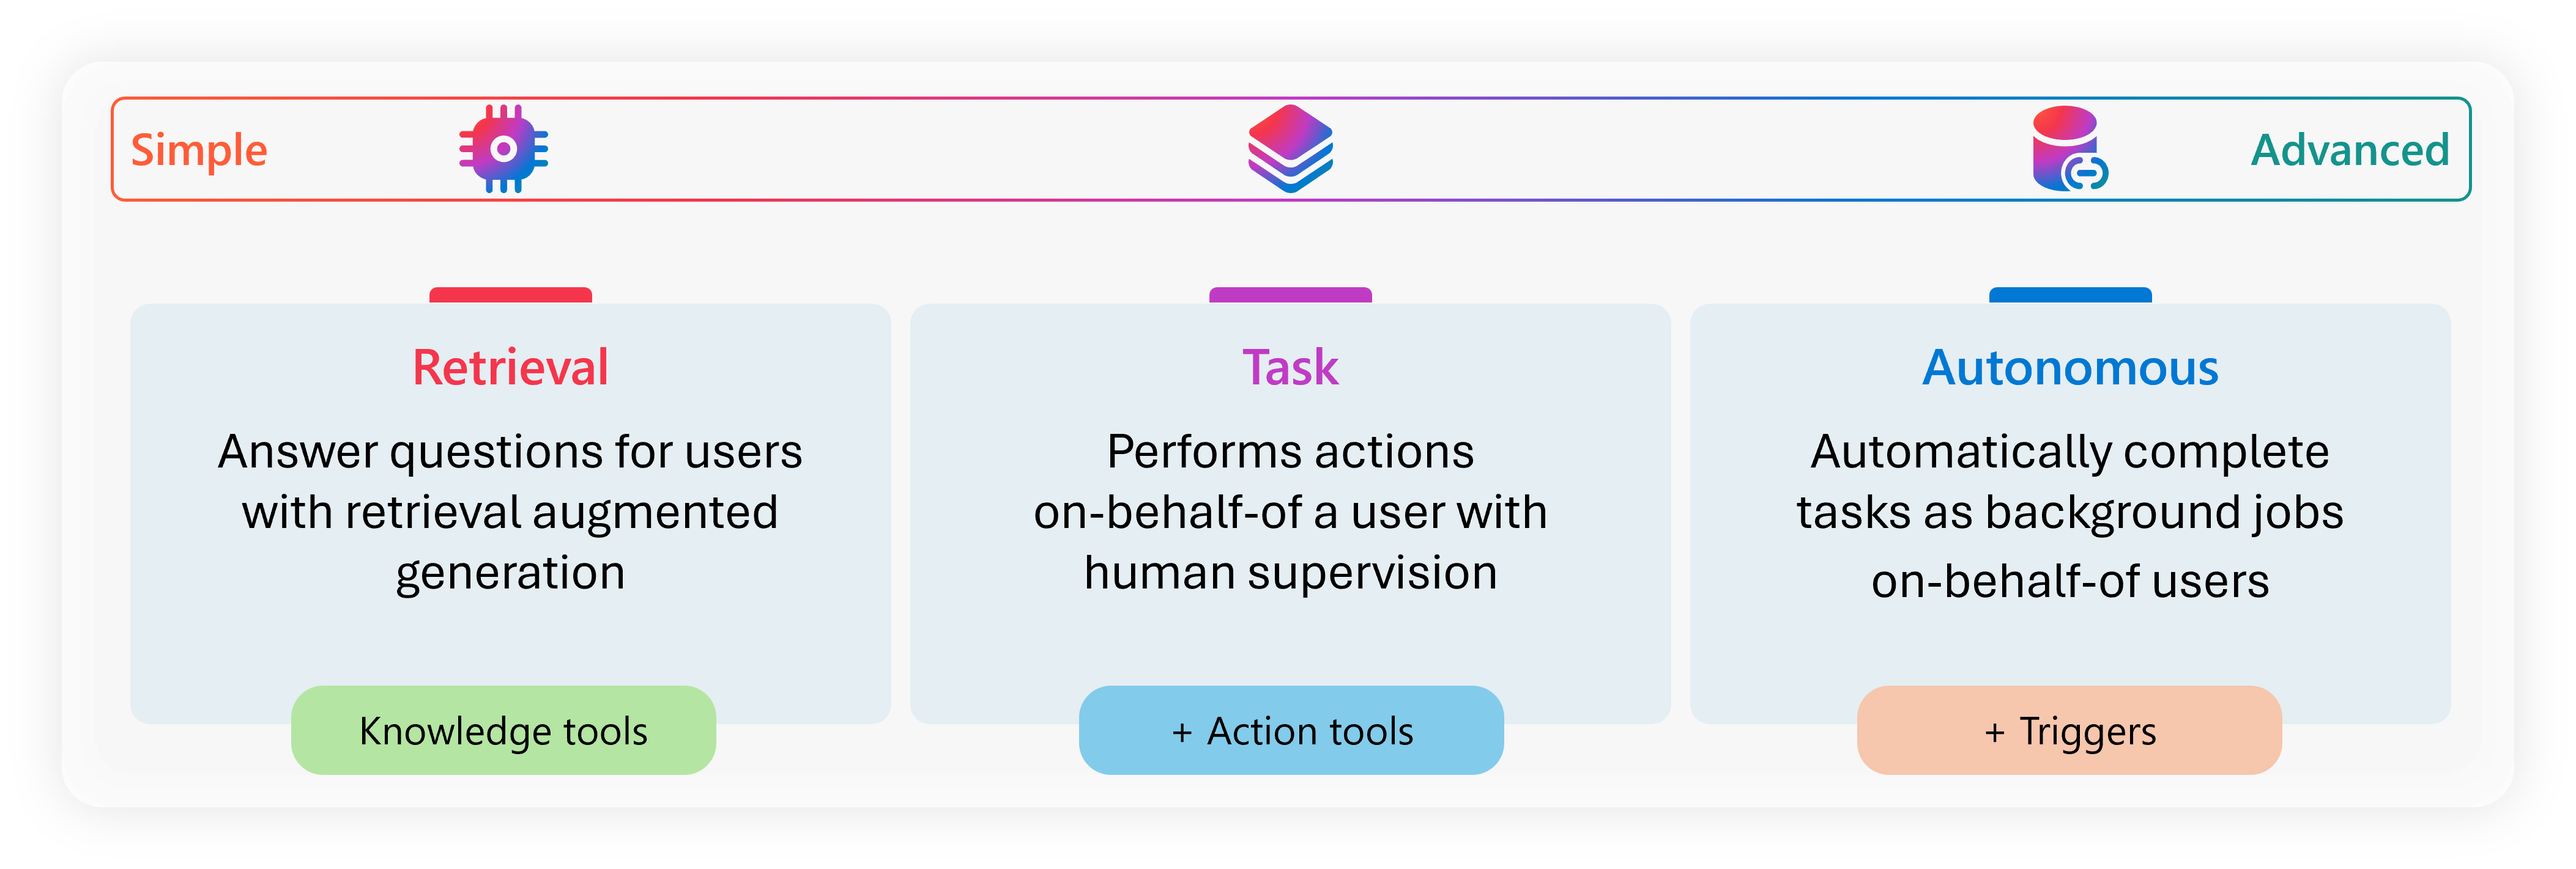
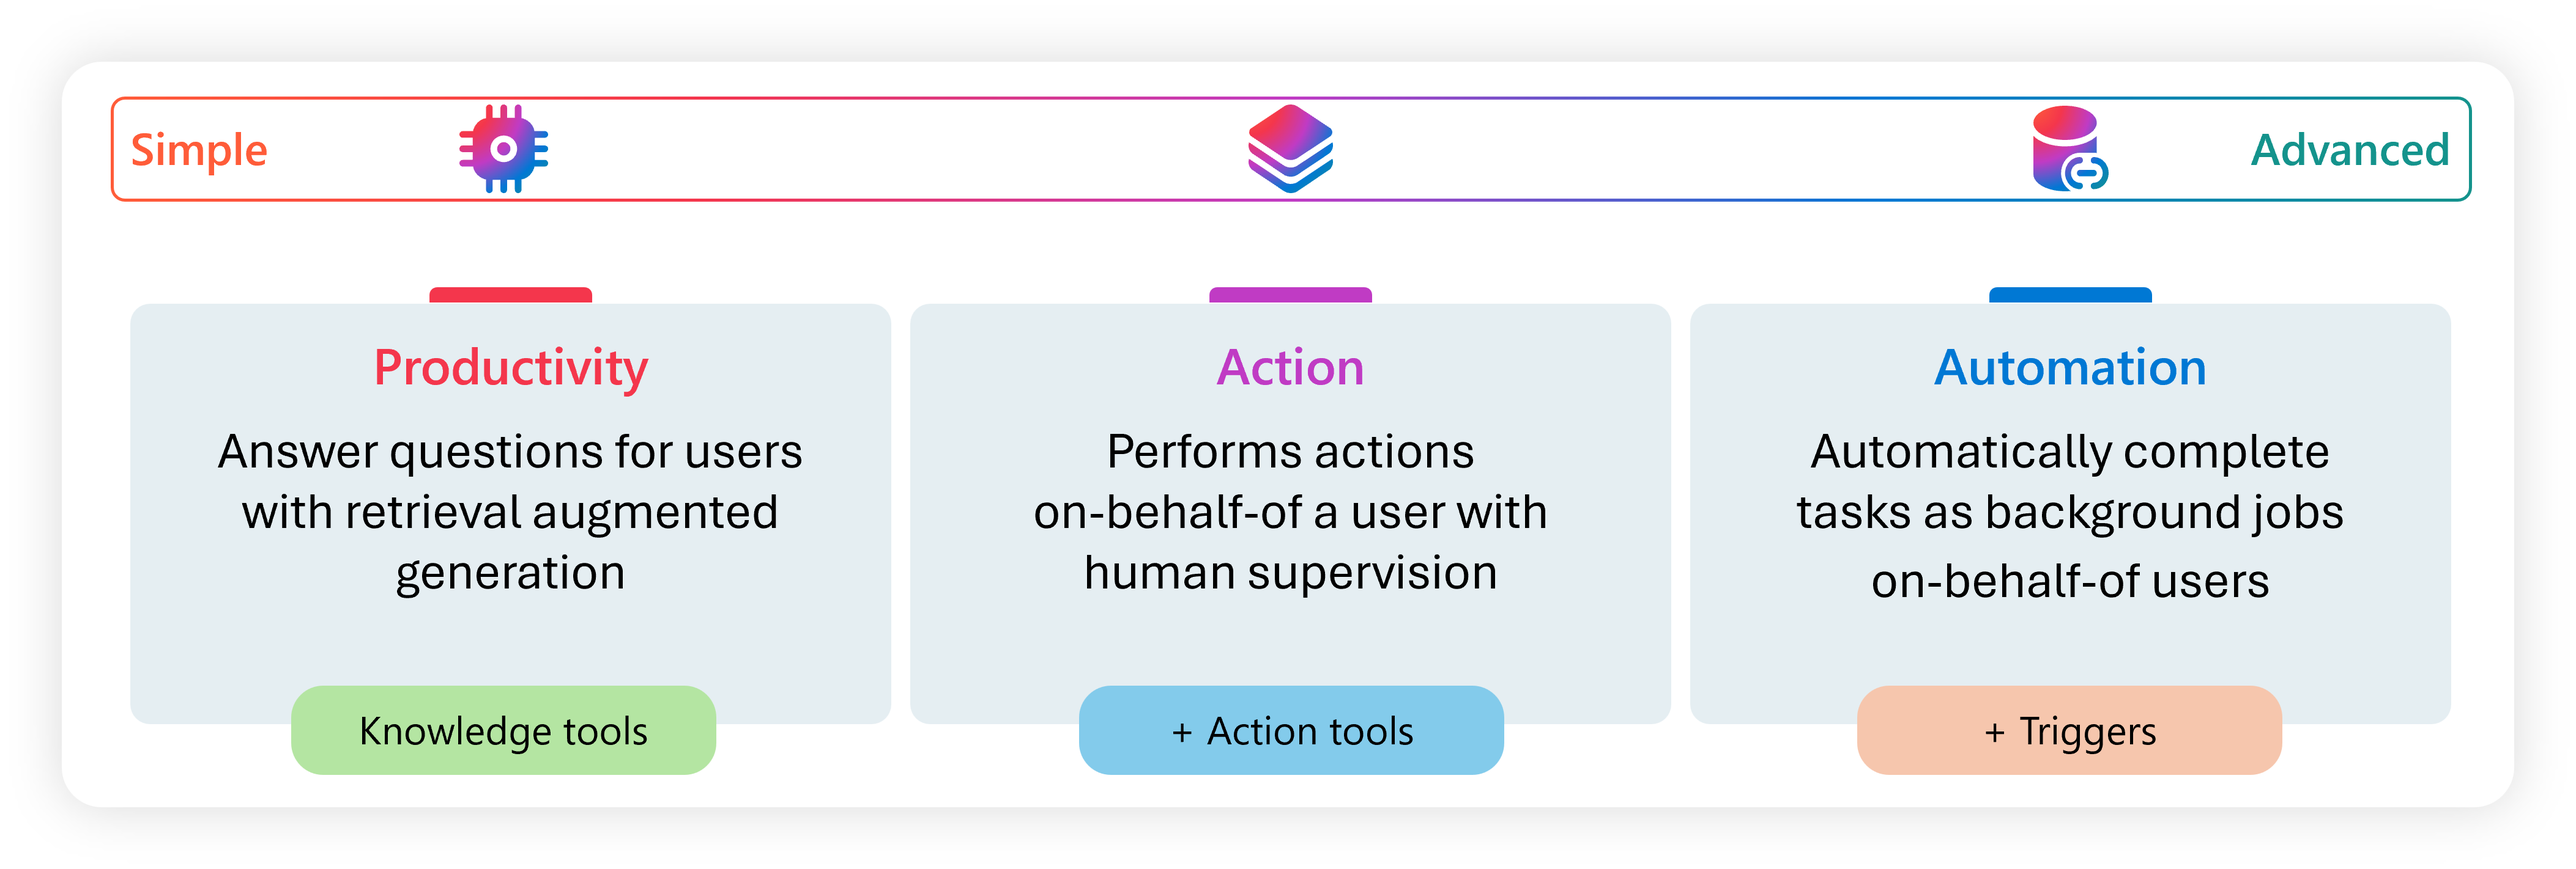
updates

Changed region(s): [[0.7466, 0.4023, 0.8711, 0.4641], [0.1244, 0.4023, 0.2489, 0.4641], [0.4666, 0.4023, 0.5289, 0.4641]]

diff --git a/docs/ai-agents/index.md b/docs/ai-agents/index.md
@@ -20,36 +20,44 @@ The guidance focuses on **Microsoft Foundry** and **Microsoft Copilot Studio**, 
 
 ## What is an AI agent?
 
-An AI agent is a simple program where you allow an generative AI model to help you decide the control flow of the program. It is like a micro-service that can execute tasks and achieve specific business outcomes. Just like microservices, you can update or fine-tune an agent without having to rebuild the whole system. It’s all about having a unit of logic that's easy to optimize and improve over time.
-
-What makes an agent different from traditional apps is its ability to handle unstructured, multi-modal input, and it uses generative AI model to decide which tool to use.
-
-At the technical level, an AI agent uses generative AI model to reason about the knowledge and tools it needs to accomplish each task. Unlike a traditional RAG application that performs a defined retrieval step before generation, agents can dynamically orchestrate multi-step retrieval, tool invocation, and adaptive reasoning during an interaction using the generative AI model. RAG applications perform static (keyword, vector, or hybrid) searches before passing results to a model for synthesis. Agents orchestrate retrieval dynamically.
+An AI agent is a small, adaptable program that uses artificial intelligence to perform tasks and make decisions. Think of it as a digital assistant that can understand instructions, access information, and take actions on your behalf. Unlike traditional applications, which follow fixed rules, AI agents can interpret unstructured input such as text or voice and decide the best way to respond. Agents operate through four core components:
 
 :::image type="content" source="./images/agent-overview.png" alt-text="Diagram showing agent architecture with four components feeding into a language model: instructions (defining agent scope and actions), knowledge (grounding data and context), tools (functions and APIs the agent can call), and memory (conversation history and state). The model produces output responses." lightbox="./images/agent-overview.png" border="false":::
 
-**Components of an agent.** An agent operates through four core components:
+- Instructions: Define what the agent should do and its scope.
+- Knowledge: Provide the data and context the agent needs.
+- Tools: Include the functions or systems the agent can use to complete tasks.
+- Memory: Store conversation history and state for continuity.
 
-- Instructions: Define the scope and actions of the agent.
-- Knowledge: Provide grounding data and context.
-- Tools: Include functions and APIs the agent can call.
-- Memory: Maintain conversation history and state.
+When triggered by a user request or system event, the agent uses these components to produce an output, such as answering a question, updating a record, or completing a workflow. 
 
-An input, such as a user message or system event, triggers the agent. The agent uses its instructions, generative AI model, and available tools, knowledge, and memory to produce an output. The output can be a message to a user or another agent, or a tool result. This structure enables agents to operate independently while aligning with business goals.
+**How is this different from traditional RAG applications?** Unlike RAG (retrieval-augmented generation) apps that follow a deterministic retrieval process before generating a response, AI agents use a generative AI model to dynamically decide which knowledge and tools to use at each step. This adaptive approach allows agents to orchestrate multi-step reasoning and actions rather than relying on a fixed search pattern.
 
-See [What is an agent?](/agent-framework/overview/agent-framework-overview#what-is-an-ai-agent) and [What is a workflow?](/azure/ai-foundry/agents/concepts/workflow?view=foundry). For more technical depth, see [What is a workflow?](/agent-framework/overview/agent-framework-overview#what-is-a-workflow) in the Microsoft Agent Framework.
+For a more technical description of agents, see [What is an agent?](/agent-framework/overview/agent-framework-overview#what-is-an-ai-agent) and [What is a workflow?](/azure/ai-foundry/agents/concepts/workflow?view=foundry) in the context of Microsoft Foundry. See also [What is a workflow?](/agent-framework/overview/agent-framework-overview#what-is-a-workflow) in the Microsoft Agent Framework.
 
-## Types of agents
+## Why do AI agents matter?
 
-Organizations deploy three types of agents based on task complexity and criticality:
+AI agents deliver three critical benefits that translate directly into business outcomes:
+
+- Efficiency: They reduce manual effort by automating repetitive tasks.
+- Speed: They accelerate decision-making and service delivery.
+- Scalability: They allow businesses to handle more work without adding headcount.
+
+These benefits lead to measurable results such as lower operating costs, improved customer satisfaction, and faster innovation. For leaders, this means AI agents are not just a technology investment—they are a strategic lever for growth and competitiveness.
+
+## Types of AI agents
+
+Organizations use three categories of AI agents, each delivering value at different levels of business impact:
 
 :::image type="content" source="./images/spectrum-agents.png" alt-text="Diagram showing a spectrum of three agent types from left to right: retrieval agents (lowest complexity, access and synthesize information), task agents (moderate complexity, take specific actions), and autonomous agents (highest complexity, multi-step planning and decision-making). An arrow indicates increasing complexity and capability from left to right." lightbox="./images/spectrum-agents.png" border="false":::
 
-**Retrieval agents** access and synthesize information based on user prompts. These agents process user input with a generative AI model to generate responses and facilitate back-and-forth exchanges. Organizations deploy retrieval agents for customer service, compliance queries, and other scenarios that require immediate, accurate responses. These agents operate within well-defined boundaries and introduce minimal risk while streamlining routine interactions.
+- **Productivity agents** (retrieval agents): These agents accelerate decision-making by instantly finding and summarizing information. They empower employees to work smarter by reducing time spent searching for answers. Productivity agents are ideal for roles that require quick responses, such as customer service, compliance, or internal knowledge lookups.
+**Business value**: Improve accuracy, boost employee productivity, and reduce operational delays. **Examples**: Fabric data agents, Researcher agent, and custom agents built in Microsoft Foundry or Copilot Studio.
 
-**Task agents** use tools to perform specific actions when prompted by users, agents, or systems. Task agents integrate with systems through APIs and tools to perform actions across platforms. They reduce manual effort in repetitive processes while maintaining predictable outcomes. They automate tasks and workflows, such as updating records, creating service tickets, or processing transactions.
+- **Action agents** (task agents). These agents go beyond answering questions and can take action. They automate repetitive tasks such as creating service tickets, updating records, or triggering workflows.
+**Business value**: Streamline operations, reduce manual errors, and free staff for higher-value work. **Examples**: Security Copilot, App Builder agent, and custom agents in Microsoft Foundry or Copilot Studio.
 
-**Autonomous agents** operate independently to achieve complex goals without constant human supervision. They make decisions, adapt to changing conditions, and orchestrate multi-step processes across systems. They are suitable for complex workflows such as supply chain optimization or predictive maintenance but require rigorous testing and governance due to non-deterministic behavior.
+- **Automation agents** These agents manage complex, multi-step processes with minimal oversight. They make decisions, adapt to changing conditions, and orchestrate entire workflows such as supply chain optimization or dynamic resource allocation. **Business value**: Enable scalable automation, improve agility, and unlock innovation in advanced business scenarios. Strong governance is essential to ensure trust and compliance. **Examples**: Custom agents in Microsoft Foundry and Copilot Studio.
 
 ## Next step
 
